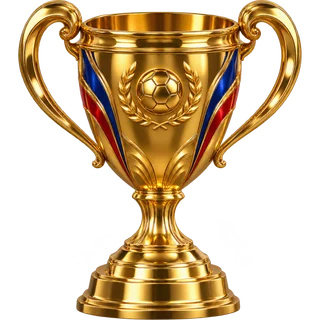
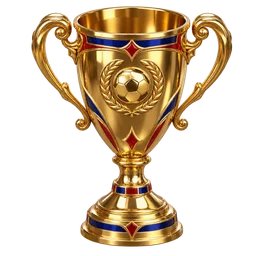
🏆 15 trophées : nouvelles illustrations + coupe du week-end, LDC, montée, carrière, pass, Noël, album, Gold Pack, Grande Forme, Légende Ultime (rattrapés selon la progression)
Claude-Session: https://claude.ai/code/session_014bWuiMkd3zLqxU8ZTHumcF

diff --git a/index.html b/index.html
@@ -2956,8 +2956,9 @@ function rewardFor(h,i){ const [a,b]=i===0?h.score:[h.score[1],h.score[0]]; cons
 const CPU_MAX=5;
 const isFreeCpuH=h=>isCpuH(h)&&(!h.mode||h.mode==="cpu");
 function cpuLeft(){ const c=W(); return c.cpud&&c.cpud.d===today()?Math.max(0,CPU_MAX-c.cpud.n):CPU_MAX; }
+let trFirst=true;
 function claimRewards(){
-  if(!me||!C(me)) return; const c=W(); c.claimed=c.claimed||[]; let got=0, lines=[];
+  if(!me||!C(me)) return; try{ trophyCheck(trFirst); trFirst=false; }catch(e){} const c=W(); c.claimed=c.claimed||[]; let got=0, lines=[];
   for(const h of matches){ if(!h.owners||c.claimed.includes(h.id)) continue; const i=h.owners.indexOf(me); if(i<0) continue;
     if((Date.now()-h.at)/MSPEED<100&&!(mSkip===h.id&&isCpuH(h))) continue; // match pas encore fini (contre l'ordi : dès que tu as vu le résultat)
     if(h.owners[0]===h.owners[1]||h.nr){ c.claimed.push(h.id); continue; }
@@ -4676,9 +4677,30 @@ function adventHTML(){ if(!me||!adventOn()) return ""; const A=adventState(), td
 // ======================================================================
 // 🏆 TABLEAU DE COUPE + ARMOIRE À TROPHÉES
 // ======================================================================
-const TROPHY={cup:{ic:"🏆",img:"coupe",t:"Coupe",c:"gold"},cup2:{ic:"🥈",img:"finaliste",t:"Finaliste",c:"silver"},lg:{ic:"👑",img:"champion",t:"Champion",c:"gold"},lg2:{ic:"🥈",img:"vice-champion",t:"Vice-champion",c:"silver"},lg3:{ic:"🥉",img:"troisieme",t:"3e du championnat",c:"bronze"}};
+const TROPHY={cup:{ic:"🏆",img:"coupe",t:"Coupe",c:"gold"},cup2:{ic:"🥈",img:"finaliste",t:"Finaliste",c:"silver"},lg:{ic:"👑",img:"champion",t:"Champion",c:"gold"},lg2:{ic:"🥈",img:"vice-champion",t:"Vice-champion",c:"silver"},lg3:{ic:"🥉",img:"troisieme",t:"3e du championnat",c:"bronze"},
+  wk:{ic:"🗓",img:"coupe-weekend",t:"Coupe du week-end",c:"gold"},ldc:{ic:"⭐",img:"ldc",t:"Ligue des Champions",c:"gold"},up:{ic:"🛡",img:"montee",t:"Divisions",c:"gold"},
+  car:{ic:"🧗",img:"carriere",t:"Carrière",c:"gold"},pass:{ic:"🎟",img:"pass",t:"Pass de saison",c:"gold"},noel:{ic:"🎄",img:"noel",t:"Calendrier de l'Avent",c:"gold"},
+  alb:{ic:"📒",img:"album",t:"Album",c:"gold"},gold:{ic:"✨",img:"gold-pack",t:"Gold Pack",c:"gold"},gf:{ic:"🔥",img:"grande-forme",t:"Grande Forme",c:"gold"},ul:{ic:"👑",img:"ultime",t:"Légende Ultime",c:"gold"}};
+const TBIG=k=>["cup","lg","wk","ldc"].includes(k);
+// 🏆 Trophées de progression : vérifiés en continu (et rattrapés pour ce qui a déjà été accompli)
+function trophyCheck(quiet){ if(!me||!C(me)) return; const c=W(); const T=c.trophies=c.trophies||[]; const add=[];
+  const has=id=>T.some(x=>x.id===id); const put=(id,k,n,extra)=>{ if(has(id)) return; const x={id,k,n,at:Date.now(),...(extra||{})}; T.push(x); add.push(x); };
+  // coupes du week-end : trophée dédié
+  T.forEach(x=>{ if(x.k==="cup"&&String(x.id).startsWith("wk-")) x.k="wk"; });
+  const D=c.div; if(D){ if((D.best??10)<10){ const up=T.find(x=>x.id==="div-up"); const nm=`Montée : ${DIV_NAME(D.best)}`; if(up){ if(up.n!==nm){ up.n=nm; up.at=Date.now(); add.push(up); } } else put("div-up","up",nm); }
+    if(D.d===0&&D.p>=DIV_UP) put("ldc-"+D.w,"ldc","Titre en Ligue des Champions"); }
+  const K=c.career; if(K&&(K.best||0)>=CAREER.length) put("car","car","Carrière terminée");
+  const P=c.pass; if(P&&P.lv>=PASS_N) put("pass-"+P.s,"pass",`Pass ${(()=>{ const [y,m]=String(P.s).split("-").map(Number); return y&&m?new Date(y,m-1,1).toLocaleDateString("fr-FR",{month:"long",year:"numeric"}):PASS_NAME(); })()}`);
+  const A=c.advent; if(A&&Object.keys(A.o||{}).length>=24) put("noel-"+A.y,"noel",`Noël ${A.y} : 24/24`);
+  (c.albumDone||[]).forEach(id=>{ const st=SETS.find(x=>x.id===id); if(st) put("alb-"+id,"alb",st.t.replace(/ \(.*\)$/,"")); });
+  if((c.goldPacks||0)>0) put("gold","gold","Gold Pack ouvert");
+  const own=c.coll||{}; const gf=VARIANTS.find(p=>p.v==="gf"&&own[p.id]); if(gf) put("gf","gf",gf.name);
+  const ul=VARIANTS.find(p=>p.v==="ul"&&own[p.id]); if(ul) put("ul","ul",ul.name);
+  if(!add.length) return; save();
+  if(quiet&&add.length>1) toast(`🏆 ${add.length} trophées ajoutés à ton armoire !`);
+  else add.forEach((x,i)=>setTimeout(()=>{ toast(`🏆 Nouveau trophée : ${(TROPHY[x.k]||{}).t} · ${x.n}`); },i*2500)); }
 const trIcon=D=>D.img?`<img class="trimg" src="img/trophees/${D.img}.webp" alt="" loading="lazy">`:D.ic;
-function trophiesHTML(id,title){ const T=((C(id)||{}).trophies||[]).slice().sort((a,b)=>(b.k==="cup"||b.k==="lg")-(a.k==="cup"||a.k==="lg")||b.at-a.at); const big=T.filter(x=>x.k==="cup"||x.k==="lg").length;
+function trophiesHTML(id,title){ const T=((C(id)||{}).trophies||[]).slice().sort((a,b)=>TBIG(b.k)-TBIG(a.k)||b.at-a.at); const big=T.filter(x=>TBIG(x.k)).length;
   return `<div class="section troph"><h3>🏆 ${title||"Armoire à trophées"} <small>${big} titre${big>1?"s":""}</small></h3>${T.length?`<div class="trg">${T.map(x=>{ const D=TROPHY[x.k]||TROPHY.cup; return `<div class="trc ${D.c}"><div class="trshine"></div><span class="tri">${trIcon(D)}</span><b>${esc(x.n)}</b><small>${D.t}${x.size?` · ${x.size} joueurs`:""}</small>${x.vs&&NAMES[x.vs]?`<small class="trvs">${x.k==="cup"?"face à":"battu par"} ${esc(NAMES[x.vs])}</small>`:""}<em>${new Date(x.at).toLocaleDateString("fr-FR",{month:"short",year:"numeric"})}</em></div>`; }).join("")}</div>`:`<div class="mute" style="font-size:13px">Aucun trophée pour l'instant : gagne une coupe ou un championnat pour remplir l'armoire !</div>`}</div>`; }
 function bracketHTML(K){ const nR=Math.round(Math.log2(K.size||4)); const N=x=>x?esc((NAMES[x]||"?").slice(0,11)):`<i class="tbd">à venir</i>`;
   const cols=[]; for(let r=0;r<nR;r++){ const n=(K.size||4)/Math.pow(2,r+1), R=K.rounds[r];
@@ -5052,7 +5074,7 @@ function claimCups(){ const c=W(); c.cupDone=c.cupDone||[]; let ch=false;
     c.cupDone.push(id); ch=true;
     c.pend=c.pend||[]; const t=Date.now()+endDelay({len:95});
     c.trophies=c.trophies||[];
-    if(K.winner===me){ c.pend.push({t,r:{pack:"legende",coins:300},why:`🏆 Vainqueur de la coupe « ${K.name} »`,trophy:K.name}); post(`🏆 ${NAMES[me]} remporte la coupe « ${K.name} » !`); if(!c.trophies.some(x=>x.id===id)) c.trophies.push({id,k:"cup",n:K.name,at:Date.now(),size:K.size,vs:K.finalist||null}); }
+    if(K.winner===me){ c.pend.push({t,r:{pack:"legende",coins:300},why:`🏆 Vainqueur de la coupe « ${K.name} »`,trophy:K.name}); post(`🏆 ${NAMES[me]} remporte la coupe « ${K.name} » !`); if(!c.trophies.some(x=>x.id===id)) c.trophies.push({id,k:String(id).startsWith("wk-")?"wk":"cup",n:K.name,at:Date.now(),size:K.size,vs:K.finalist||null}); }
     else { c.pend.push({t,r:{pack:"or"},why:`🥈 Finaliste de la coupe « ${K.name} »`}); if(!c.trophies.some(x=>x.id===id)) c.trophies.push({id,k:"cup2",n:K.name,at:Date.now(),size:K.size,vs:K.winner||null}); } }
   if(ch){ c.cupDone=c.cupDone.slice(-40); save(); } }
 function trophyFx(name){ const el=document.createElement("div"); el.className="trophy"; el.innerHTML=`<div><span><img src="img/trophees/coupe.webp" alt="" style="width:130px;height:130px;object-fit:contain;filter:drop-shadow(0 0 24px #ffd970)"></span><b>CHAMPION !</b><small>${esc(name)}</small></div>`; try{ SFX.fanfare(); SFX.cheer(); }catch(_){} document.body.appendChild(el); el.onclick=()=>el.remove(); setTimeout(()=>el.remove(),6000); }
@@ -5403,7 +5425,7 @@ function installGuide(force){
 installGuide(false);
 
 // ---------- 🔄 Mise à jour automatique ----------
-const APP_V="2026-11-24l"; // affichage seulement : la détection des mises à jour est automatique
+const APP_V="2026-11-24m"; // affichage seulement : la détection des mises à jour est automatique
 let updShown=false, lastUpdCheck=0, pageTag=null;
 // Demande seulement l'en-tête de la page (requête HEAD, quelques octets) : si GitHub a publié une nouvelle
 // version, son ETag / date de modification change. Rien à mettre à jour à la main.
